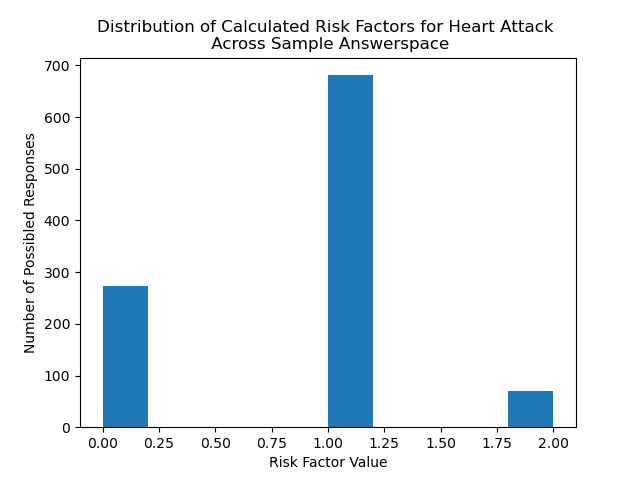
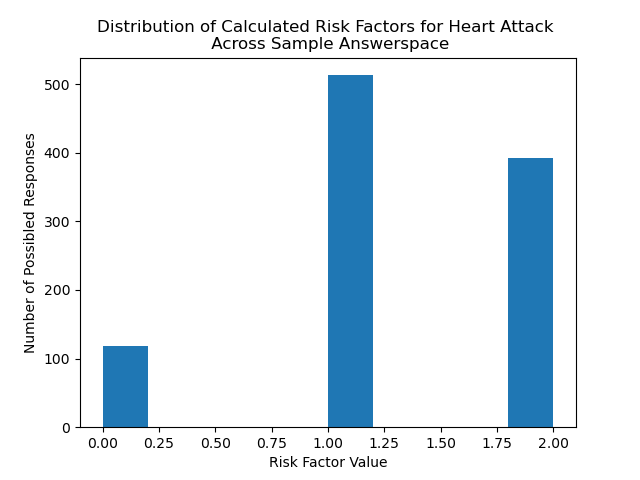
ok

diff --git a/triage_nnetwork.py b/triage_nnetwork.py
@@ -64,9 +64,9 @@ def calculate_sample_risk_factors(poss_comb, condition, num_ans):
 
     #Define weight vector associated with questions with condition:
     if condition == 'heart attack':
-        weight_vector = [1, 1, 1, 1, 1, 2, 2, 2, 2, 1]
+        weight_vector = [2, 1, 1, 1, 1, 3, 3, 2, 3, 2]
     else:
-        weight_vector = [2, 1, 1, 2, 2, 1, 1, 2, 1, 2]
+        weight_vector = [2, 1, 1, 2, 2, 1, 1, 2, 1, 1]
 
     #Calculate risk factor associated with each possible combination of answers:
     for i in range(len(poss_comb)):
